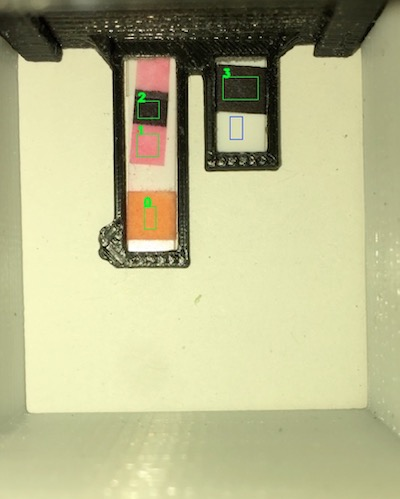
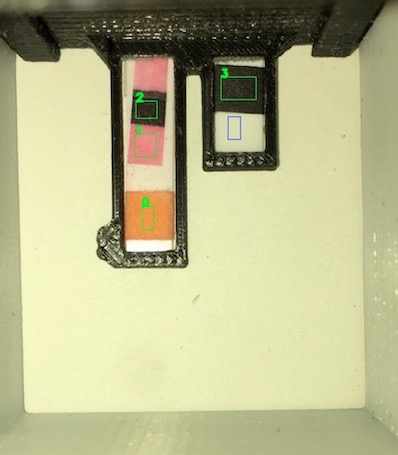
optimised image size

diff --git a/README.md b/README.md
@@ -23,7 +23,7 @@ All the parts can be 3D-printed with proper printer setup.
 ### Light box connector
 
 <p align="center">
-<img src="https://github.com/zyfccc/Smartphone-Modulated-Colorimetric-Reader-with-Color-Subtraction-IEEE-Sensors-2019/blob/master/smartphone_case_connector.jpg" height="150">
+<img src="https://github.com/zyfccc/Smartphone-Modulated-Colorimetric-Reader-with-Color-Subtraction-IEEE-Sensors-2019/blob/master/smartphone_case_connector.jpg" height="120">
 </p>
 
 This is the conenctor part that should be glued onto a commercial smartphone case to join with the light box. The camera and flashlight of the smartphone should be centered at the opening window of the connector. It should be 3D-printed in black material to prevent ambient light leakage.
@@ -55,7 +55,7 @@ This is the assay platform adaptor component. Here, we designed a pH test strip 
 ### Bottom panel and bottom panel cover
 
 <p align="center">
-<img src="https://github.com/zyfccc/Smartphone-Modulated-Colorimetric-Reader-with-Color-Subtraction-IEEE-Sensors-2019/blob/master/bottom_panel.jpg" height="200">
+<img src="https://github.com/zyfccc/Smartphone-Modulated-Colorimetric-Reader-with-Color-Subtraction-IEEE-Sensors-2019/blob/master/bottom_panel.jpg" height="100">
 </p>
 
 This is the bottom panel that closes the light box. The bottom panel could be 3D-printed in white material to ensure light reflectance while the bottom panel cover should be 3D-printed in black material to prevent ambient light leakage. A white paper could be used on top of the bottom panel to maximizes uniformity.
